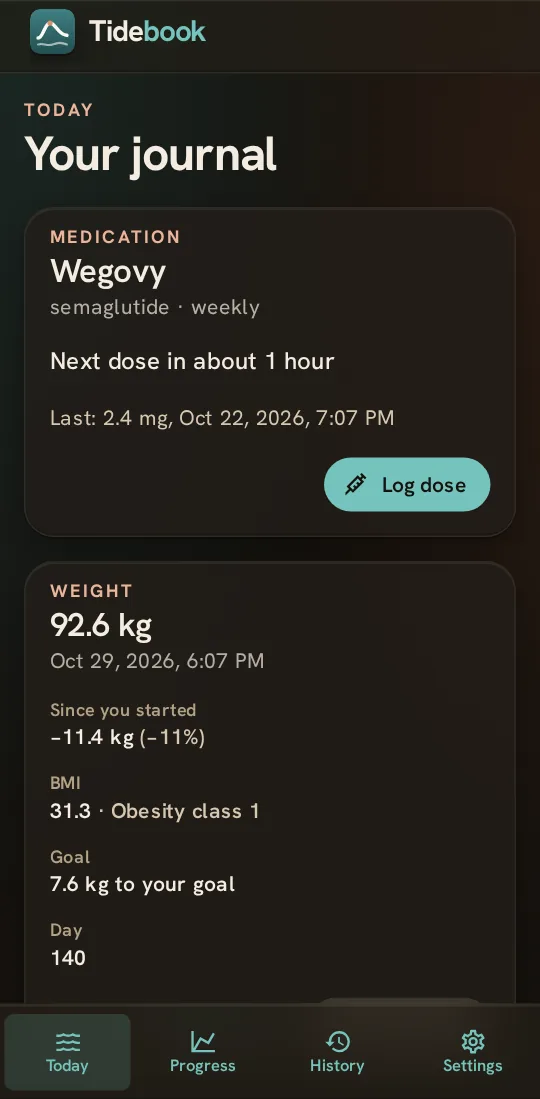
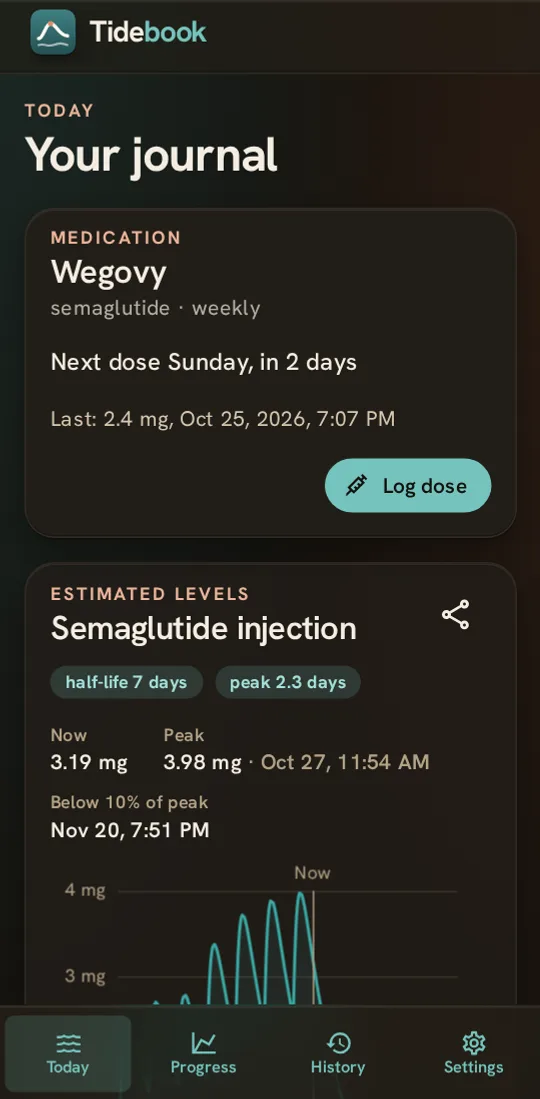
update docs site

diff --git a/site/index.html b/site/index.html
@@ -15,7 +15,7 @@
     <title>Tidebook: a private GLP-1 journal</title>
     <meta
       name="description"
-      content="A free GLP-1 journal that works offline. Log doses and weight, follow your BMI and compare your progress with the clinical trials. Your data stays on your phone."
+      content="A free, private GLP-1 journal that works offline. Log doses, weight, blood sugar, and side effects, and see how your progress compares with the clinical trials."
     />
     <meta name="color-scheme" content="light dark" />
     <meta name="theme-color" content="#fbf8f3" media="(prefers-color-scheme: light)" />
@@ -49,8 +49,8 @@
             <p class="eyebrow">Free · Private · Offline</p>
             <h1>A private journal for your GLP‑1 journey</h1>
             <p class="lead">
-              Log doses and weight, follow your BMI and compare your progress with the clinical
-              trials. Your data stays on your phone.
+              Log doses, weight, blood sugar, and side effects. See how your progress compares with
+              the clinical trials. Everything stays on your device.
             </p>
             <div class="actions">
               <a class="button button--primary" href="app/">Open Tidebook</a>
@@ -59,7 +59,6 @@
             <ul class="badges" aria-label="Works with">
               <li>Brand-name pens and tablets</li>
               <li>Compounded semaglutide and tirzepatide</li>
-              <li>kg or lb, cm or ft and in</li>
             </ul>
           </div>
           <div class="phones">
@@ -72,7 +71,7 @@
                 src="assets/screens/today-light.webp"
                 width="540"
                 height="1099"
-                alt="Tidebook's Today screen: when the next dose is due, the latest weight, change since starting, and BMI"
+                alt="Tidebook's Today screen: when the next dose is due and an estimate of the medicine in the body over recent doses"
               />
             </picture>
             <picture class="phone">
@@ -94,49 +93,50 @@
       <section id="features" class="section section--band">
         <div class="wrap">
           <div class="section-head stack">
-            <h2>What you can track</h2>
+            <h2>Everything in one place</h2>
+            <p class="muted">Your treatment, your progress, and the science behind it.</p>
           </div>
           <div class="grid">
             <article class="card">
               <h3>Doses</h3>
               <p class="muted">
-                Pick a strength from your medicine's label and note the injection site if you like.
-                Tidebook shows when your next dose is due.
+                Pick a strength from your medicine's label and see when your next dose is due. For a
+                compounded vial, Tidebook also shows the units to draw on a U-100 syringe.
               </p>
             </article>
             <article class="card">
               <h3>Weight and BMI</h3>
               <p class="muted">
-                Weigh in whenever you like. Add your height to see your BMI with a plain
-                explanation, and add a goal line if you want one.
+                Weigh in whenever you like and follow your trend over time. Add your height for BMI,
+                and a goal if you want one.
               </p>
             </article>
             <article class="card">
-              <h3>Clinical trial comparison</h3>
+              <h3>Blood sugar</h3>
               <p class="muted">
-                Compare your change since your first dose with the published averages from STEP,
-                SURMOUNT, SURPASS and other trials. Each one links to its prescribing label.
+                Record HbA1c results and glucose readings, in the units your lab or meter uses, and
+                see how they change.
               </p>
             </article>
             <article class="card">
-              <h3>Estimated medicine levels</h3>
+              <h3>Side effects</h3>
               <p class="muted">
-                Tidebook uses the published half-life to estimate how much medicine is left between
-                doses. If you switch brands, the curve continues.
+                Note how you feel and how strongly. See which side effects come up most, and how
+                long after a dose they usually appear.
               </p>
             </article>
             <article class="card">
-              <h3>Compounded vials</h3>
+              <h3>Estimated levels</h3>
               <p class="muted">
-                Enter your vial's strength once, and each dose also shows how many units to draw on
-                a U-100 syringe.
+                See an estimate of how much medicine is in your body between doses, based on its
+                published half-life. Switch brands and the curve carries on.
               </p>
             </article>
             <article class="card">
-              <h3>For everyone</h3>
+              <h3>Trial comparison</h3>
               <p class="muted">
-                Every profile field is optional and you can describe your gender in your own words.
-                The app never praises or judges a number on the scale.
+                Compare your progress with published results from STEP, SURMOUNT, SURPASS, and other
+                trials, for weight, HbA1c, and fasting glucose.
               </p>
             </article>
           </div>
@@ -148,9 +148,9 @@
           <div class="section-head stack">
             <h2>Made by GLP‑1 users, for&nbsp;GLP‑1&nbsp;users</h2>
             <p class="muted">
-              Tidebook is the journal we wanted for our own treatment: quick to log a dose, clear
-              about our weight and BMI, and honest about what the trials found. It's free, it keeps
-              your data on your phone, and anyone can read the code.
+              Tidebook is the journal we wanted for our own treatment: quick to use, clear about
+              progress, and honest about what the trials found. When it's time for an appointment,
+              export a PDF report for your care team. It's free, private, and open source.
             </p>
           </div>
         </div>
@@ -169,15 +169,13 @@
             />
           </picture>
           <div class="stack">
-            <h2>Every number has a source</h2>
+            <h2>Backed by science</h2>
+            <p class="muted">Every number in Tidebook comes with its source, one tap away.</p>
             <ul class="checks">
-              <li>
-                Trial results are copied exactly as printed in each medicine's US prescribing
-                information, with a link to the label.
-              </li>
-              <li>Tidebook shows only the published endpoints and draws no curve between them.</li>
-              <li>Trial results are averages. Individual results vary widely.</li>
-              <li>Tidebook never tells you what dose to take. Your prescriber decides that.</li>
+              <li>Trial results are copied exactly as printed in each medicine's US label.</li>
+              <li>Where trials are combined on one chart, Tidebook says so.</li>
+              <li>Trial results are group averages. Your results are your own.</li>
+              <li>Tidebook never recommends a dose. That's for you and your prescriber.</li>
             </ul>
           </div>
         </div>
@@ -186,20 +184,20 @@
       <section id="privacy" class="section">
         <div class="wrap split">
           <div class="stack">
-            <h2>Your data stays on your phone</h2>
+            <h2>Private by design</h2>
             <p class="muted">
-              Tidebook has no account, no server and no analytics. It runs on your device and works
-              without a connection. The Android app doesn't request network access.
+              No account, no server, and no analytics. Tidebook runs entirely on your device, even
+              offline, and the Android app doesn't request network access.
             </p>
             <p class="muted">
-              Because the only copy is on your phone, save a backup file from Settings now and then.
-              You can also erase everything from Settings at any time.
+              Your device holds the only copy of your journal, so save a backup from Settings from
+              time to time. You can erase everything whenever you like.
             </p>
             <p><a href="privacy.html">Read the privacy policy</a></p>
           </div>
           <ul class="checks">
-            <li>No sign-up, email or phone number</li>
-            <li>No tracking, ads or third-party code</li>
+            <li>No sign-up, email, or phone number needed</li>
+            <li>No tracking, ads, or third-party code</li>
             <li>Works offline after the first visit</li>
             <li>Free, with no paywall</li>
             <li>Open source under the AGPL-3.0</li>
@@ -231,8 +229,8 @@
           </div>
           <p class="small muted spaced">
             Brand names are the trademarks of their respective owners and are used only to identify
-            the medicines. Tidebook is not affiliated with, endorsed by or sponsored by Novo
-            Nordisk, Eli Lilly or any other manufacturer or pharmacy.
+            the medicines. Tidebook is not affiliated with, endorsed by, or sponsored by Novo
+            Nordisk, Eli Lilly, or any other manufacturer or pharmacy.
           </p>
         </div>
       </section>
@@ -242,8 +240,8 @@
           <div class="section-head stack">
             <h2>Install Tidebook</h2>
             <p class="muted">
-              Open <a href="app/">tidebook.github.io/app</a> on your phone and add it to your home
-              screen. It opens full screen and works offline.
+              Open <a href="app/">tidebook.github.io/app</a> on your phone, then add it to your Home
+              Screen. It opens full screen and works offline.
             </p>
           </div>
           <div class="table-scroll">
@@ -289,16 +287,16 @@
           <details>
             <summary>Is Tidebook really free?</summary>
             <p>
-              Yes. There's no subscription, no ads and no premium tier. With no server, it costs
-              almost nothing to run.
+              Yes. No subscription, no ads, and no premium tier. With no server, it costs almost
+              nothing to run.
             </p>
           </details>
           <details>
             <summary>Where is my data stored?</summary>
             <p>
-              In your browser's storage on your device, or inside the Android app. Nothing is sent
-              anywhere. If you clear this site's data in your browser, or uninstall, it's gone, so
-              keep a backup file.
+              On your device: in your browser's storage, or inside the Android app. Nothing is sent
+              anywhere. Clearing this site's data or uninstalling the app deletes it, so keep a
+              backup.
             </p>
           </details>
           <details>
@@ -310,25 +308,33 @@
             </p>
           </details>
           <details>
+            <summary>Can I share my journal with my doctor?</summary>
+            <p>
+              Yes. On the Progress screen, export a PDF report of your medicines, weight, blood
+              sugar, side effects, and doses for the last 30 days, the last 90 days, or everything.
+              It's made on your device and goes only where you send it.
+            </p>
+          </details>
+          <details>
             <summary>Does Tidebook tell me what dose to take?</summary>
             <p>
-              No. It shows the strengths and schedules printed on each medicine's label as a
-              reference, and does the arithmetic for you. Your prescriber decides your dose.
+              No. It shows the strengths and schedules printed on each medicine's label for
+              reference, and does the arithmetic. Your prescriber decides your dose.
             </p>
           </details>
           <details>
             <summary>Why is there no level chart for semaglutide tablets?</summary>
             <p>
               Only about 1% to 2% of a semaglutide tablet is absorbed, and the amount varies from
-              day to day. An estimate based on tablet strength would be wrong, so Tidebook doesn't
-              show one.
+              day to day. An estimate from the tablet's strength would be misleading, so Tidebook
+              doesn't show one.
             </p>
           </details>
           <details>
             <summary>Is it medical advice?</summary>
             <p>
-              No. Tidebook is a journal and a calculator. It isn't a medical device and doesn't
-              replace your prescriber, pharmacist or care team.
+              No. Tidebook is a journal and a calculator, not a medical device. It doesn't replace
+              your prescriber, pharmacist, or care team.
             </p>
           </details>
         </div>
@@ -344,8 +350,8 @@
         </nav>
         <p>
           Tidebook is free software under the GNU AGPL-3.0. It is not medical advice and does not
-          recommend doses. Ozempic, Wegovy and Rybelsus are trademarks of Novo Nordisk A/S.
-          Mounjaro, Zepbound and Foundayo are trademarks of Eli Lilly and Company. Tidebook is not
+          recommend doses. Ozempic, Wegovy, and Rybelsus are trademarks of Novo Nordisk A/S.
+          Mounjaro, Zepbound, and Foundayo are trademarks of Eli Lilly and Company. Tidebook is not
           affiliated with Novo Nordisk or Eli Lilly.
         </p>
       </div>

diff --git a/site/privacy.html b/site/privacy.html
@@ -35,7 +35,7 @@
 
     <main id="main" class="wrap">
       <article class="prose">
-        <p class="eyebrow">Last updated 29 October 2026</p>
+        <p class="eyebrow">Last updated 30 October 2026</p>
         <h1>Privacy policy</h1>
         <p class="lead">
           Tidebook collects no personal data. Everything you enter stays on your device.
@@ -43,14 +43,15 @@
 
         <h2>What Tidebook stores</h2>
         <p>
-          Your medicines, doses, weigh-ins, injection sites, notes, display settings and any profile
-          details you add (height, birth month and year, gender, goal weight). They are stored only
-          on your device: in your browser's storage, or in the Android app's private storage.
+          Your medicines, doses, injection sites, weigh-ins, HbA1c and glucose readings, side
+          effects, notes, display settings, and any profile details you add (height, birth month and
+          year, gender, and goal weight). They are stored only on your device: in your browser's
+          storage, or in the Android app's private storage.
         </p>
 
         <h2>What Tidebook sends</h2>
         <p>
-          Nothing you enter. There is no account, server, analytics, advertising or third-party
+          Nothing you enter. There is no account, server, analytics, advertising, or third-party
           code. The web app loads its files from GitHub Pages and then works offline. When you're
           online, your browser occasionally checks for a newer version, and that check carries none
           of your data. The Android app has no network permission.
@@ -64,10 +65,14 @@
           >. Those logs never include anything you enter in Tidebook.
         </p>
 
-        <h2>Backups</h2>
+        <h2>Backups, reports, and shared images</h2>
         <p>
           A backup from Settings is a plain JSON file that goes wherever you save it. Tidebook never
           uploads it, and Android cloud backup is turned off for the app.
+        </p>
+        <p>
+          PDF reports and chart images are made on your device. They leave it only when you save or
+          share them, and go only where you send them.
         </p>
 
         <h2>Deleting your data</h2>

diff --git a/README.md b/README.md
@@ -1,6 +1,6 @@
 # tidebook.github.io
 
-The project site for [Tidebook](https://tidebook.github.io/), a free, private and offline GLP-1
+The project site for [Tidebook](https://tidebook.github.io/), a free, private, and offline GLP-1
 journal. The app itself lives in [Tidebook/app](https://github.com/Tidebook/app) and is served
 at [tidebook.github.io/app](https://tidebook.github.io/app/).
 
@@ -23,7 +23,7 @@ The site shares the `tidebook.github.io` origin with the app, so:
   are plain links, never loaded resources.
 
 `npm run check` enforces all three, plus working internal links and anchors, image alt text,
-formatting and the no-em-dash rule.
+formatting, and the no-em-dash rule.
 
 ## Development
 
@@ -41,7 +41,9 @@ make check
 This repository must be named `tidebook.github.io` in the `Tidebook` organisation. In its
 settings, under Pages, set the source to **GitHub Actions**, then push to `main`.
 
-Screenshots in `site/assets/screens/` come from the app with sample data, never real records.
+Screenshots in `site/assets/screens/` come from the app with sample data, never real records. To
+retake the Today pair, run `make screenshots` in the app repository; its `site-screenshots`
+skill has the steps.
 
 ## License
 
